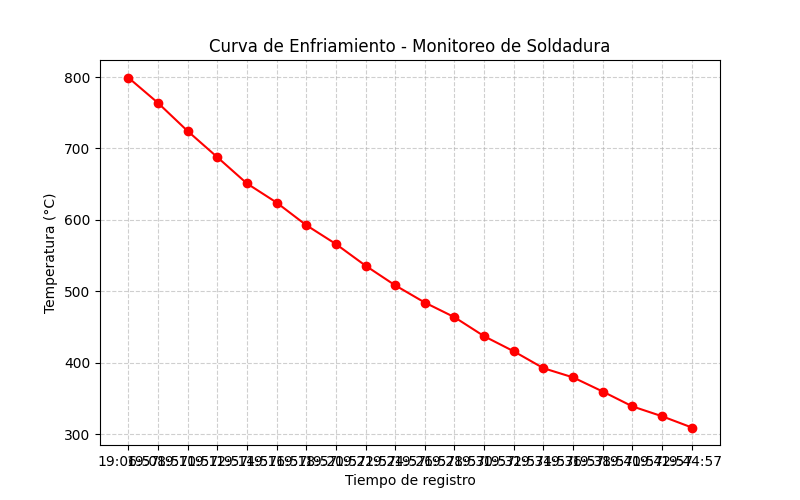
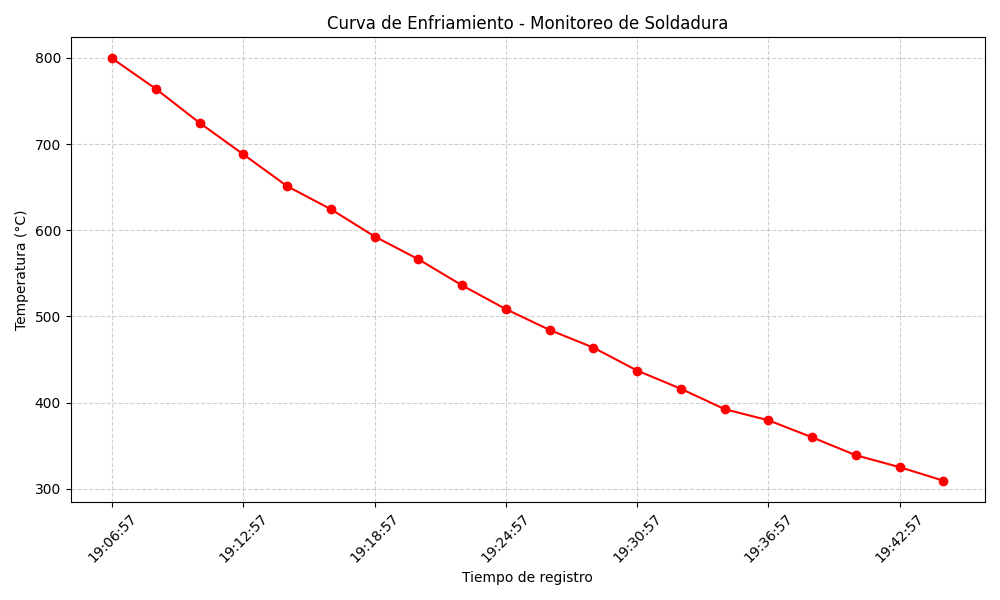
Grafico: Optimizacion de legibilidad del eje X

diff --git a/scripts/graficador_termico.py b/scripts/graficador_termico.py
@@ -7,24 +7,33 @@ ruta_datos = "../data/temp_test.csv"
 def generar_grafica():
     try:
         df = pd.read_csv(ruta_datos)
-        
-        # Crear la gráfica
-        plt.figure(figsize=(8, 5))
+
+        # 1. Configurar el tamaño de la imagen
+        plt.figure(figsize=(10, 6))
+
+        # 2. Dibujar la linea roja con los puntos
         plt.plot(df['timestamp'], df['temp_c'], marker='o', color='red', linestyle='-')
-        
-        # Personalización técnica
+
+        # 3. LIMPIEZA DEL EJE X (Aquí está el truco)
+        # Saltamos de 3 en 3 etiquetas y las rotamos para que no se choquen
+        plt.xticks(ticks=df['timestamp'][::3], rotation=45)
+
+        # 4. Personalizacion tecnica
         plt.title("Curva de Enfriamiento - Monitoreo de Soldadura")
         plt.xlabel("Tiempo de registro")
         plt.ylabel("Temperatura (°C)")
         plt.grid(True, linestyle='--', alpha=0.6)
         
-        # Guardar el reporte visual en la carpeta correcta
+        # 5. Ajustar margenes para que no se corte el texto rotado
+        plt.tight_layout()
+
+        # 6. Guardar el archivo
         ruta_salida = "../reports/curva_enfriamiento.png"
         plt.savefig(ruta_salida)
-        print(f"--- [OK] Gráfica generada exitosamente en: {ruta_salida} ---")
-        
+        print(f"--- [OK] Grafica legible generada en: {ruta_salida} ---")
+
     except Exception as e:
-        print(f"--- [ERROR] No se pudo generar la gráfica: {e} ---")
+        print(f"--- [ERROR] No se pudo generar la grafica: {e} ---")
 
 if __name__ == "__main__":
     generar_grafica()
